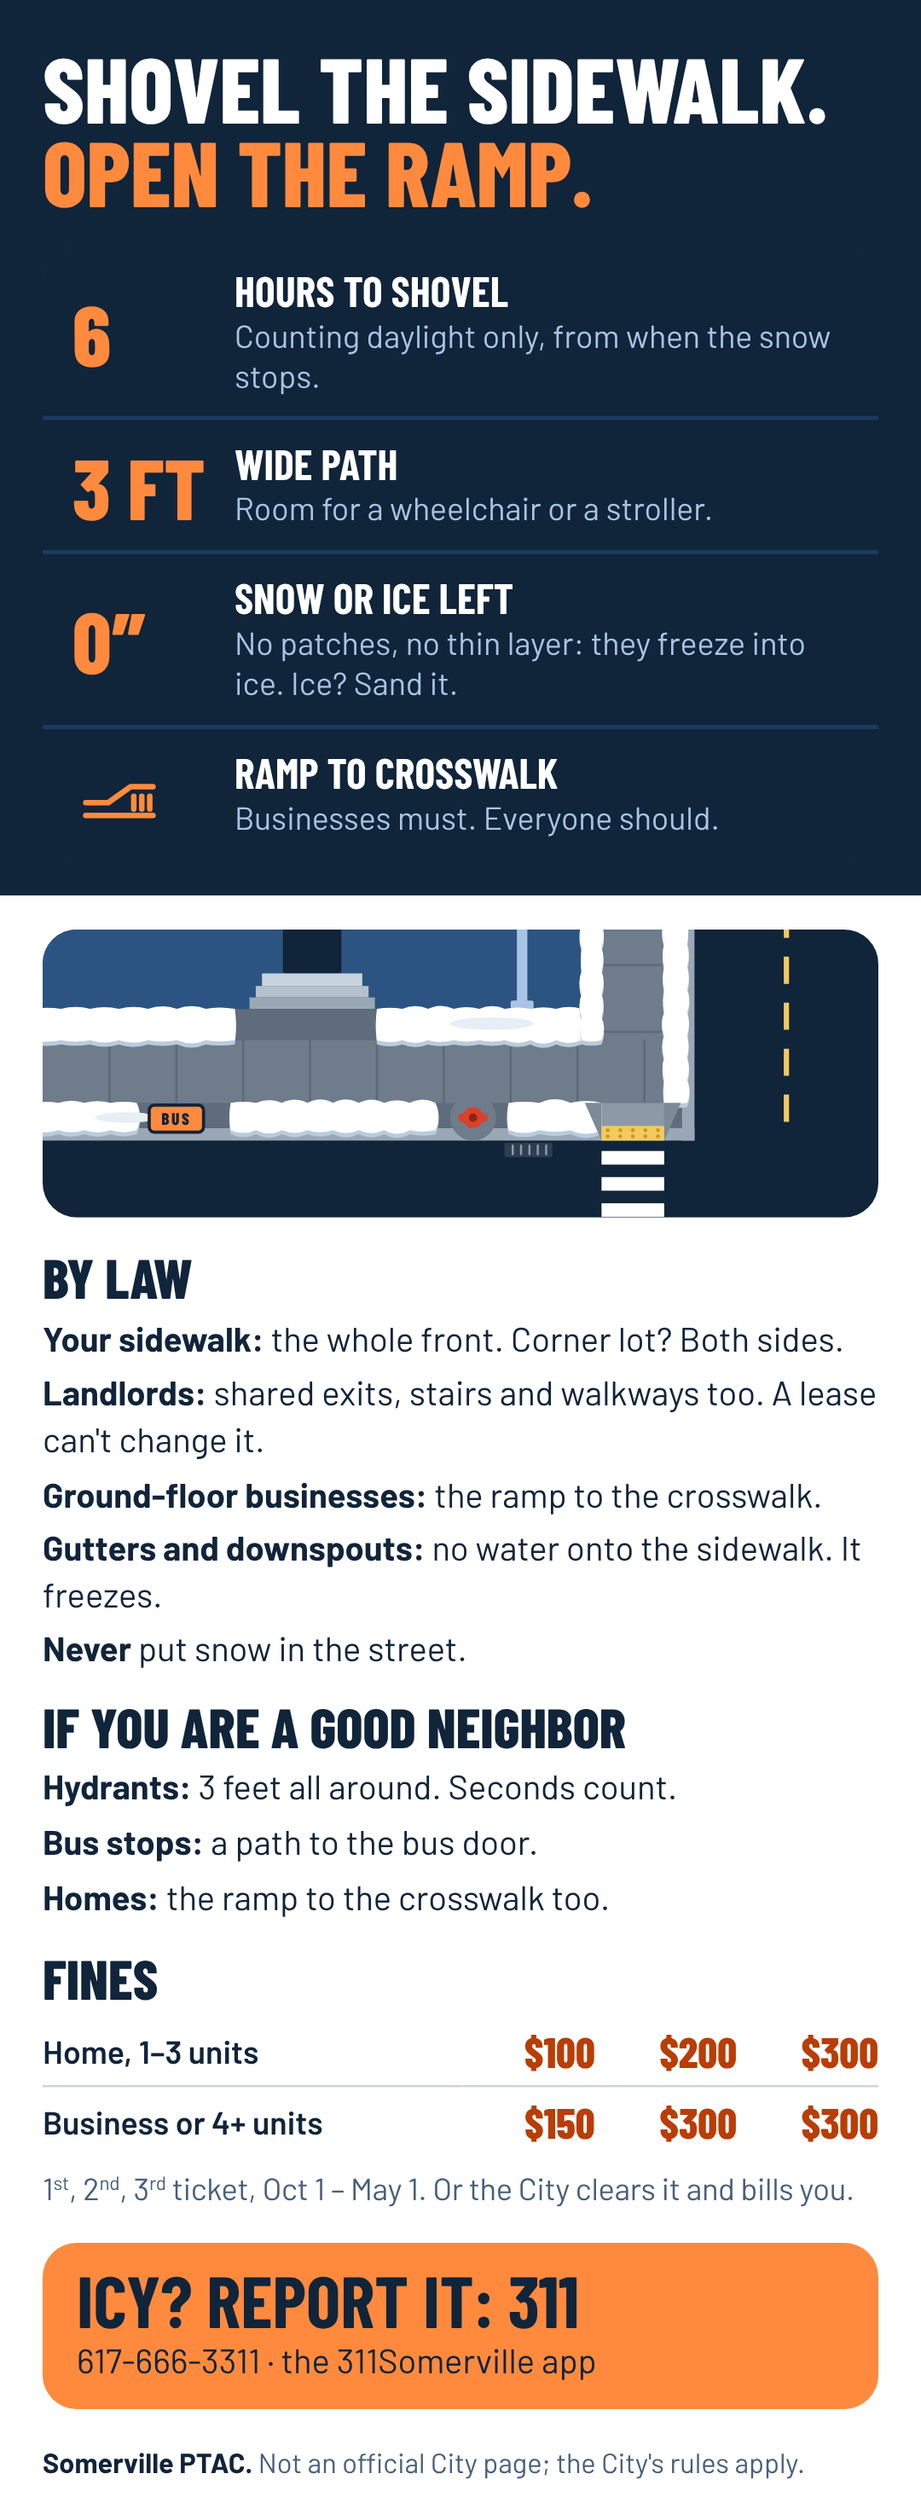
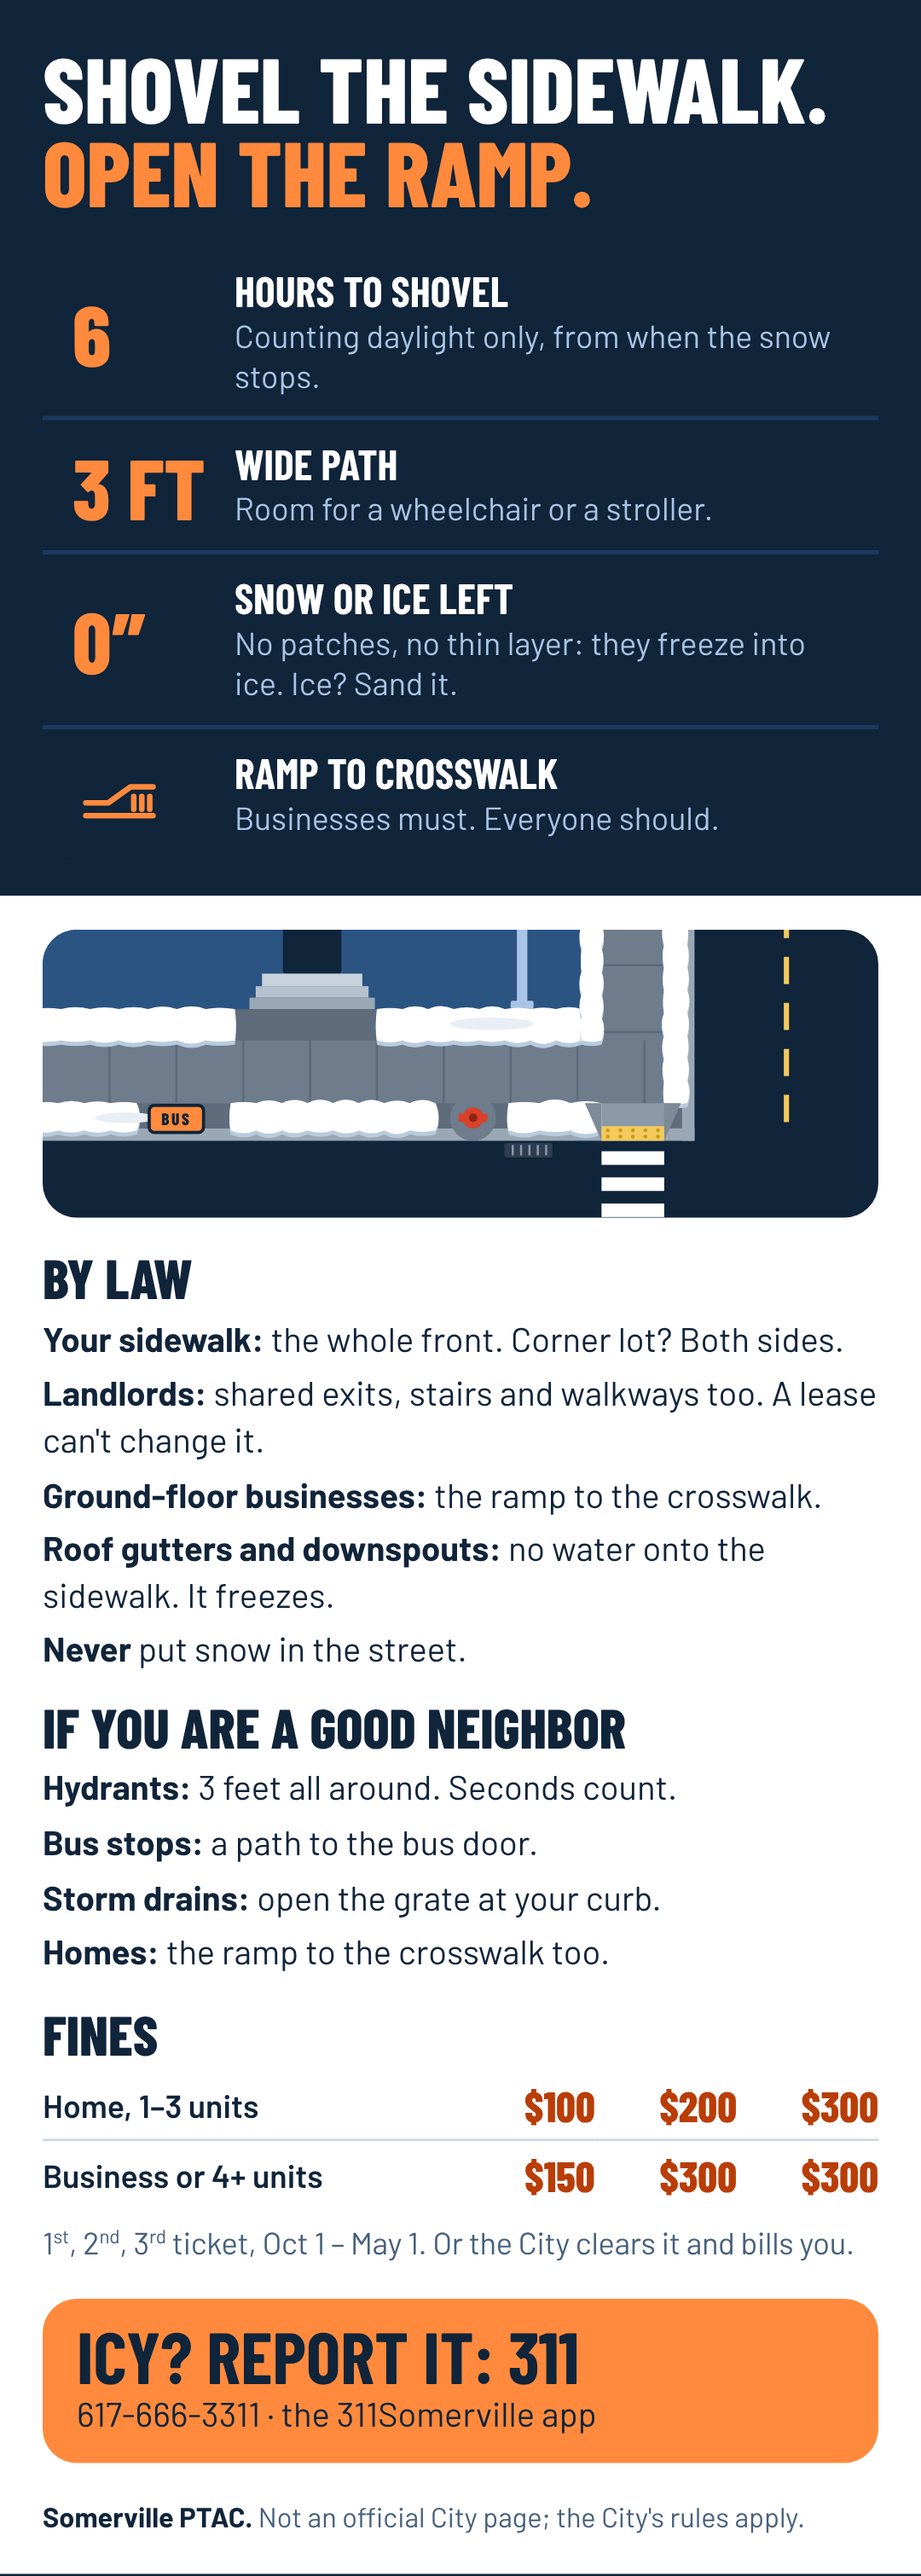
Flyers: roof gutters, storm drains
Claude-Session: https://claude.ai/code/session_01NQ76C6nydNvs9N6wiqQBM6

diff --git a/docs/flyer.html b/docs/flyer.html
@@ -78,7 +78,7 @@ h2{font-size:26px;font-weight:800;margin-bottom:8px}
           <li><b>Your sidewalk:</b> the whole front. Corner lot? Both sides.</li>
           <li><b>Landlords:</b> shared exits, stairs and walkways too. A lease can't change it.</li>
           <li><b>Ground-floor businesses:</b> the ramp to the crosswalk.</li>
-          <li><b>Gutters and downspouts:</b> no water onto the sidewalk. It freezes.</li>
+          <li><b>Roof gutters and downspouts:</b> no water onto the sidewalk. It freezes.</li>
           <li><b>Never</b> put snow in the street.</li>
         </ul>
       </div>
@@ -93,6 +93,7 @@ h2{font-size:26px;font-weight:800;margin-bottom:8px}
         <ul class="list">
           <li><b>Hydrants:</b> 3 feet all around. Seconds count.</li>
           <li><b>Bus stops:</b> a path to the bus door.</li>
+          <li><b>Storm drains:</b> open the grate at your curb.</li>
           <li><b>Homes:</b> the ramp to the crosswalk too.</li>
         </ul>
       </div>
@@ -112,7 +113,7 @@ h2{font-size:26px;font-weight:800;margin-bottom:8px}
 import { corner } from './js/corner.js';
 document.getElementById('art').innerHTML = corner('flyer-corner', false);
 // Crop to the sidewalk band so the page keeps room for fines, 311 and the QR code.
-document.querySelector('#art svg').setAttribute('viewBox', '0 166 800 230');
+document.querySelector('#art svg').setAttribute('viewBox', '0 186 800 202');
 </script>
 </body>
 </html>

diff --git a/docs/flyer-phone.html b/docs/flyer-phone.html
@@ -105,13 +105,14 @@ h2{font-size:26px;margin-bottom:6px}
           <li><b>Your sidewalk:</b> the whole front. Corner lot? Both sides.</li>
           <li><b>Landlords:</b> shared exits, stairs and walkways too. A lease can't change it.</li>
           <li><b>Ground-floor businesses:</b> the ramp to the crosswalk.</li>
-          <li><b>Gutters and downspouts:</b> no water onto the sidewalk. It freezes.</li>
+          <li><b>Roof gutters and downspouts:</b> no water onto the sidewalk. It freezes.</li>
           <li><b>Never</b> put snow in the street.</li>
         </ul>
         <h2 class="h2b">If you are a good neighbor</h2>
         <ul class="list">
           <li><b>Hydrants:</b> 3 feet all around. Seconds count.</li>
           <li><b>Bus stops:</b> a path to the bus door.</li>
+          <li><b>Storm drains:</b> open the grate at your curb.</li>
           <li><b>Homes:</b> the ramp to the crosswalk too.</li>
         </ul>
       </div>
